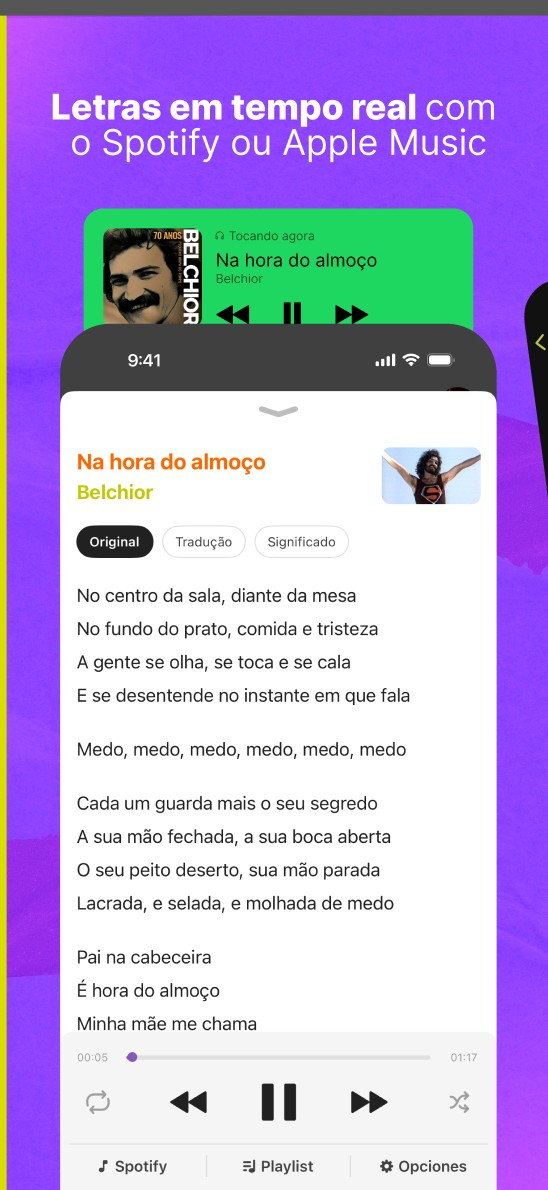
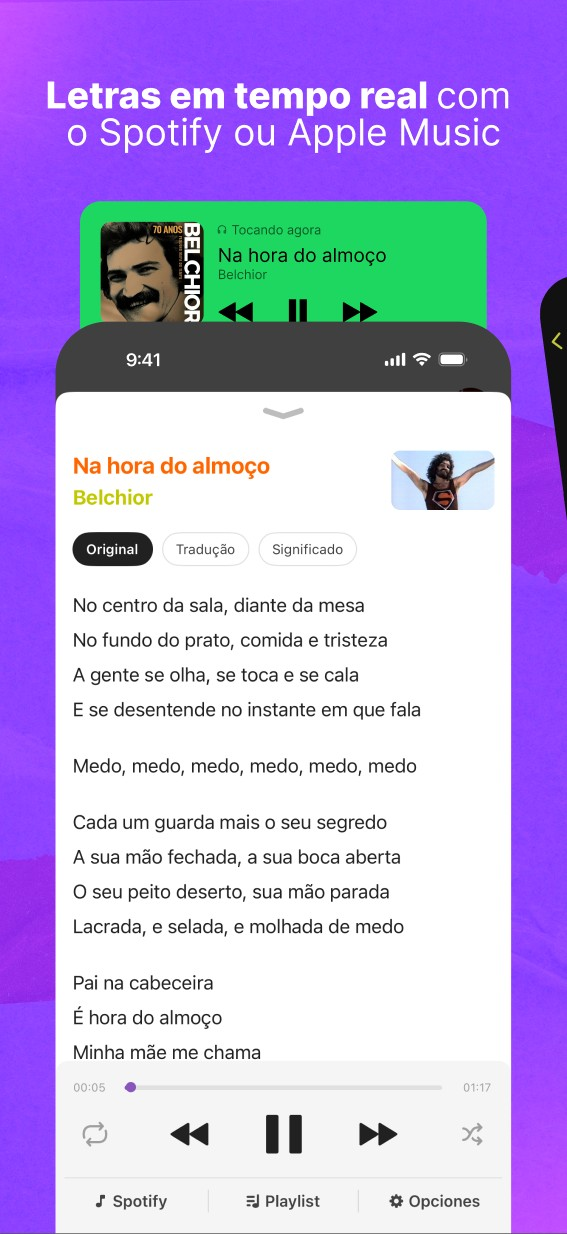
Lojas de apps: telas recortadas do frame (sem borda cinza nem sangria), faixa montada com as telas separadas, nova capa

diff --git a/site/assets/js/main.js b/site/assets/js/main.js
@@ -458,7 +458,10 @@
         return `<figure class="b-deck" data-p="deck"><div class="deck-track">${imgs.map((m, i) => `<div class="deck-card" style="--i:${i};--rot:${((i % 2 ? 1 : -1) * (3 + (i % 4))).toFixed(1)}deg;z-index:${n - i}">${media(m.img, b.ratio || "4/5")}</div>`).join("")}</div>${cap(b)}</figure>`;
       }
       case "pan": // a long strip (app store screens, panoramas) that loops sideways on its own and can be dragged
-        return `<figure class="b-pan" data-showcase><div class="pan-view"><div class="sc-track pan-track">${[0, 1].map((k) => `<img src="${esc(b.img)}" alt="${k ? "" : esc(t(b.caption) || "")}"${k ? ' aria-hidden="true"' : ""} loading="lazy" style="aspect-ratio:${esc(b.ratio || "3/1")}">`).join("")}</div></div>${cap(b)}</figure>`;
+        {
+          const shots = imgs.length ? imgs : [{ img: b.img, ratio: b.ratio }];
+          return `<figure class="b-pan" data-showcase><div class="pan-view"><div class="sc-track pan-track">${[0, 1].map((k) => shots.map((m) => `<img src="${esc(m.img)}" alt=""${k ? ' aria-hidden="true"' : ""} loading="lazy" style="aspect-ratio:${esc(m.ratio || b.ratio || "3/1")}">`).join("")).join("")}</div></div>${cap(b)}</figure>`;
+        }
       case "gallery": // every piece side by side, same height, opens in the lightbox
         return `<figure class="b-gallery" style="--cols:${Number(b.cols) || imgs.length || 4}"><div class="gal-grid">${imgs.map((m, i) => `<div ${stagger(i, 0.04)}>${media(m.img, m.ratio || b.ratio)}</div>`).join("")}</div>${cap(b)}</figure>`;
       case "scatter": { // cards that land from different directions and settle slightly turned

diff --git a/site/assets/css/style.css b/site/assets/css/style.css
@@ -1008,3 +1008,7 @@ body.mode-photo { --bg: #0E0C0F; --fg: #F0E7D3; --card: #1A171B; --line: rgba(24
 .b-gallery figcaption { margin-top: 14px; color: var(--muted); font-size: 14px; }
 @media (max-width: 900px) { .gal-grid { grid-template-columns: repeat(min(var(--cols), 4), minmax(0, 1fr)); } }
 @media (max-width: 560px) { .gal-grid { grid-template-columns: repeat(2, minmax(0, 1fr)); } }
+
+/* app-store strip built from the separate screens, with a gap like in the store */
+.b-pan .pan-view { background: transparent; border-radius: 0; }
+.pan-track img { border-radius: calc(var(--r) * .5); padding-right: 0; margin-right: clamp(8px, .9vw, 14px); }
